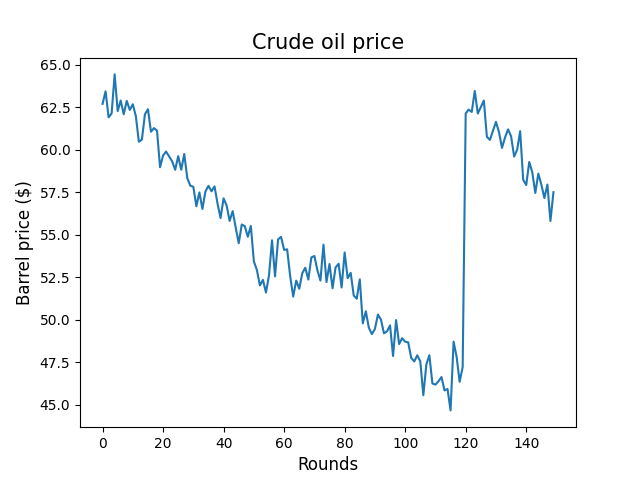
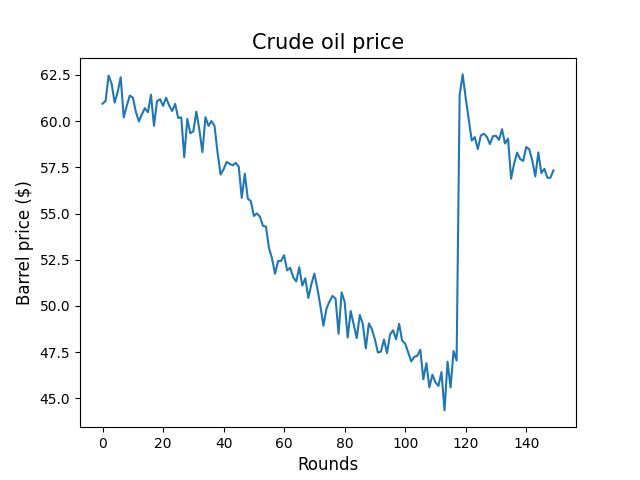
f

diff --git a/main.py b/main.py
@@ -26,9 +26,9 @@ class Simulation():
             country.production = country.decide_production(self.market_state)
             country.production += random.uniform(-1, 1) * PROD_NOISE
             total_prod += country.production
-            
+
         new_price = calc_price(total_prod, BASE_SUPPLY,
-                                BASE_PRICE * 1.02, SUPPLY_SENSITIVITY)
+                                BASE_PRICE, SUPPLY_SENSITIVITY)
 
         self.prices.append(new_price)
         self.market_state.update(new_price, total_prod)
